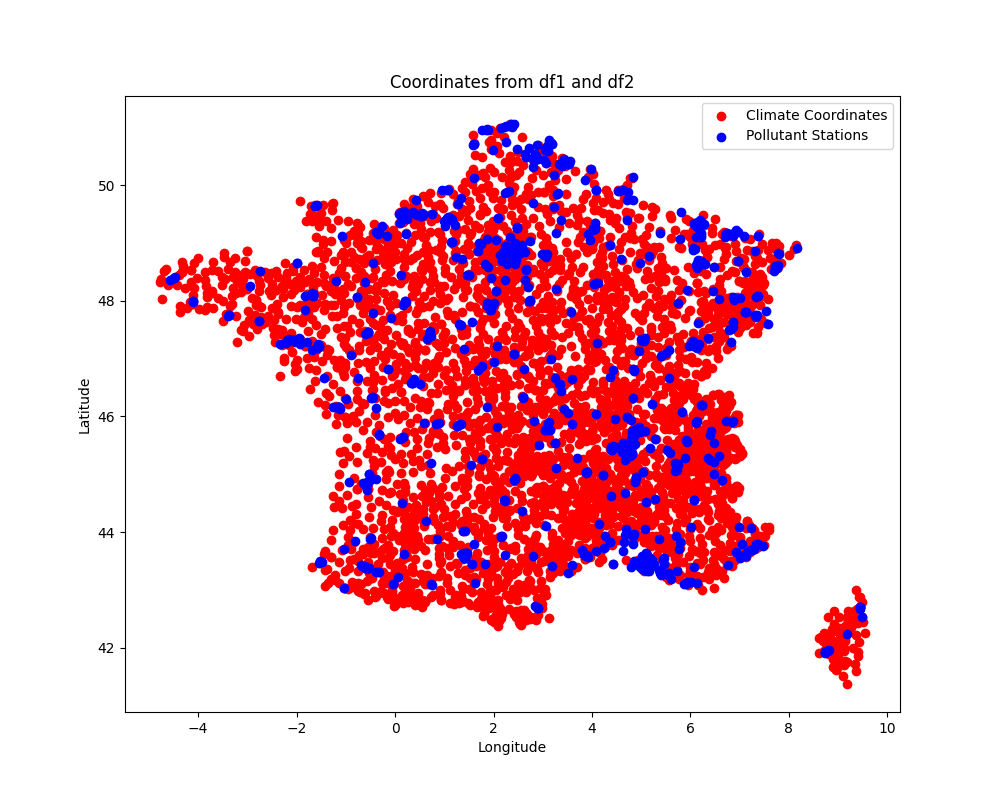
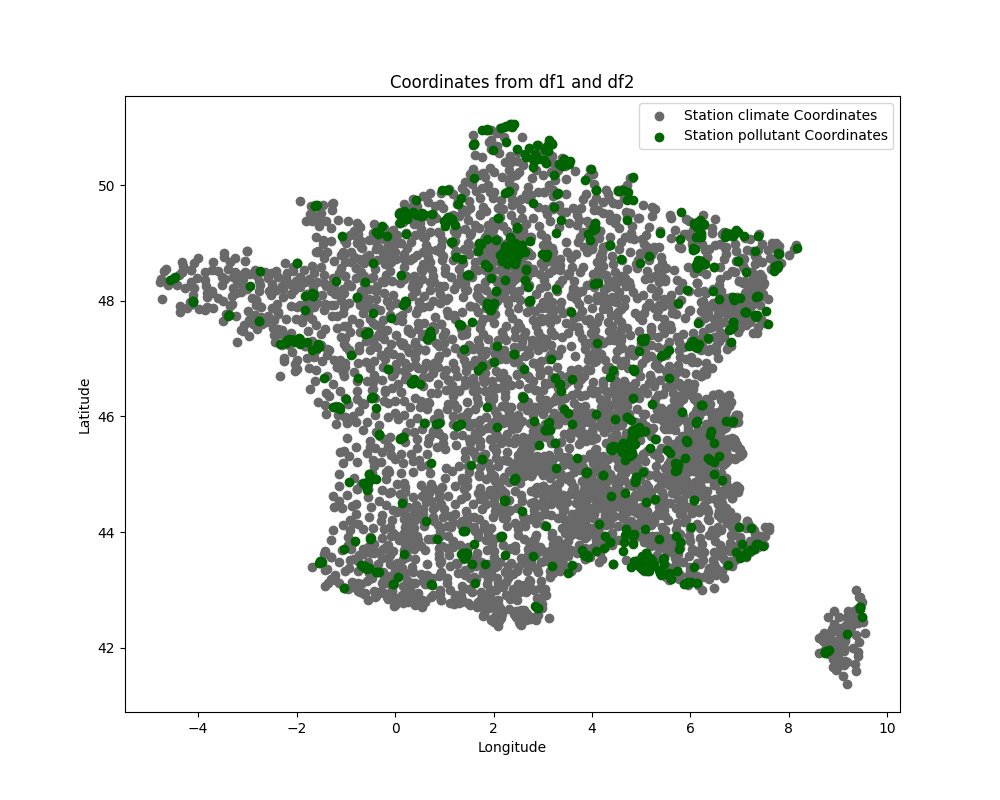
add new data script and change img

Changed region(s): [[0.155, 0.125, 0.806, 0.8125], [0.651, 0.125, 0.899, 0.1875], [0.806, 0.7188, 0.868, 0.875]]

diff --git a/script/merge_pollution_climate.py b/script/merge_pollution_climate.py
@@ -1,5 +1,5 @@
 import pandas as pd
-import glob 
+import glob
 
 # Define the bounds for the Rhône-Alpes region (example bounds, you may need to adjust them)
 lat_min, lat_max = 44.0, 46.5
@@ -9,13 +9,30 @@ lon_min, lon_max = 4.0, 7.5
 correspondence_df = pd.read_csv('C:/Users/Administrateur/Documents/correspondence_table.csv')
 
 # Load the pollution data
-pollution_df = pd.read_csv('C:/Users/Administrateur/Documents/pollution_rhone_alpe_data.csv')
+pollution_df_old = pd.read_csv('C:/Users/Administrateur/Documents/pollution_rhone_alpe_data.csv')
+pollution_df_new = pd.read_csv('C:/Users/Administrateur/Documents/rhone_alpes_filtered_data_new.csv')
+
+# Function to standardize datetime formats to ISO 8601
+def standardize_datetime_format(df, column_name):
+    # Parse the datetime column with errors='coerce' to handle any parsing issues
+    df[column_name] = pd.to_datetime(df[column_name], errors='coerce', utc=True)
+    # Convert to ISO 8601 format with timezone information
+    df[column_name] = df[column_name].dt.strftime('%Y-%m-%dT%H:%M:%S%z')
+    return df
+
+# Apply the function to both DataFrames
+pollution_df_old = standardize_datetime_format(pollution_df_old, 'start')
+pollution_df_new = standardize_datetime_format(pollution_df_new, 'start')
+
+# Concatenate old and new pollution data
+pollution_df = pd.concat([pollution_df_old, pollution_df_new])
+print(pollution_df)
 
 # Merge the pollution data with the correspondence data on the id column
 merged_pollution_df = pollution_df.merge(correspondence_df, left_on='id', right_on='Pollutant_Station_Code')
 
-# Convert date-time columns in pollution data to the desired format
-merged_pollution_df['date'] = pd.to_datetime(merged_pollution_df['start']).dt.strftime('%Y%m%d')
+# Convert 'start' column to datetime format and then format it to 'YYYYMMDD'
+merged_pollution_df['date'] = pd.to_datetime(merged_pollution_df['start'], errors='coerce').dt.strftime('%Y%m%d')
 print("Merged Pollution Data:")
 print(merged_pollution_df.columns.values)
 
@@ -43,9 +60,9 @@ for climate_file in climate_files:
     
     # Filter the rows based on latitude and longitude bounds
     subset_climate_df = climate_df[(climate_df['Climate_Latitude'] >= lat_min) & 
-                                    (climate_df['Climate_Latitude'] <= lat_max) & 
-                                    (climate_df['Climate_Longitude'] >= lon_min) & 
-                                    (climate_df['Climate_Longitude'] <= lon_max)]
+                                   (climate_df['Climate_Latitude'] <= lat_max) & 
+                                   (climate_df['Climate_Longitude'] >= lon_min) & 
+                                   (climate_df['Climate_Longitude'] <= lon_max)]
     
     # Convert 'Climate_Date' to string format 'YYYYMMDD'
     subset_climate_df['Climate_Date'] = subset_climate_df['Climate_Date'].astype(str)
@@ -54,13 +71,10 @@ for climate_file in climate_files:
     filtered_climate_df = subset_climate_df[subset_climate_df['Climate_Date'].isin(pollution_dates)]
     
     # Append the filtered data to the list
-    climate_data_list.append(subset_climate_df)
-     
+    climate_data_list.append(filtered_climate_df)
 
 # Combine all climate data into a single DataFrame
 all_climate_data_df = pd.concat(climate_data_list, ignore_index=True)
-print(all_climate_data_df )
-
 print("Combined Climate Data:")
 print(all_climate_data_df.columns.values)
 

diff --git a/script/get_concordance_coord.py b/script/get_concordance_coord.py
@@ -28,6 +28,7 @@ def filter_france_metropolitaine(df, lat_col, lon_col):
 # Initialize lists to store matching coordinates
 correspondence = []
 
+# Load pollution station data
 df2 = pd.read_excel('C:/Users/Administrateur/Documents/fr-2023-d-lcsqa-ineris-20230717.xls')
 coord2 = df2[['EUStationCode', 'Latitude', 'Longitude']].drop_duplicates()
 # Filter coord2 for France Métropolitaine
@@ -35,7 +36,7 @@ coord2 = filter_france_metropolitaine(coord2, 'Latitude', 'Longitude')
 
 all_coords1 = pd.DataFrame()
 
-# Iterate through each file and gather coordinates
+# Iterate through each climate data file and gather coordinates
 for file_path in glob.glob("C:/Users/Administrateur/Documents/data_climate/data/data_climate*"):
     df1 = pd.read_csv(file_path)
     coords1 = df1[['NOM_USUEL', 'LAT', 'LON']].drop_duplicates()
@@ -45,15 +46,12 @@ for file_path in glob.glob("C:/Users/Administrateur/Documents/data_climate/data/
 # Remove duplicates
 all_coords1 = all_coords1.drop_duplicates()
 
-
-
-
 # Dictionary to store the closest coordinates
 closest_pairs = {}
 
+print("Start to create the correspondence table")
 
-print( "Start to create the correspindec table")
-# Iterate through all coordinates and find the closest points
+# Iterate through all climate coordinates and find the closest pollution stations
 for index1, row1 in all_coords1.iterrows():
     lat1 = row1['LAT']
     lon1 = row1['LON']
@@ -70,8 +68,8 @@ for index1, row1 in all_coords1.iterrows():
             closest_distance = distance
             closest_row = row2
     
-    # Store the closest match if one was found
-    if closest_row is not None:
+    # Store the closest match if one was found and the pollution station is not already assigned
+    if closest_row is not None and closest_row['EUStationCode'] not in closest_pairs.values():
         closest_pairs[index1] = {
             'Climate_Name': row1['NOM_USUEL'],
             'Climate_Latitude': lat1,
@@ -81,7 +79,7 @@ for index1, row1 in all_coords1.iterrows():
             'Pollutant_Station_Longitude': closest_row['Longitude'],
             'Distance_km': closest_distance
         }
-        print(row1['NOM_USUEL'], closest_distance, closest_row['EUStationCode'] )
+        print(row1['NOM_USUEL'], closest_distance, closest_row['EUStationCode'])
 
 # Create a DataFrame from the closest pairs
 correspondence_df = pd.DataFrame(list(closest_pairs.values()))
@@ -92,11 +90,10 @@ correspondence_df.to_csv('correspondence_table.csv', index=False)
 # Print the DataFrame
 print(correspondence_df)
 
-
 # Plot the coordinates
 plt.figure(figsize=(10, 8))
-plt.scatter(all_coords1['LON'], all_coords1['LAT'], c='red', label='Climate Coordinates')
-plt.scatter(coord2['Longitude'], coord2['Latitude'], c='blue', label='Pollutant Stations')
+plt.scatter(all_coords1['LON'], all_coords1['LAT'], c='dimgrey', label='Station climate Coordinates')
+plt.scatter(coord2['Longitude'], coord2['Latitude'], c='darkgreen', label='Station pollutant Coordinates')
 
 plt.xlabel('Longitude')
 plt.ylabel('Latitude')
